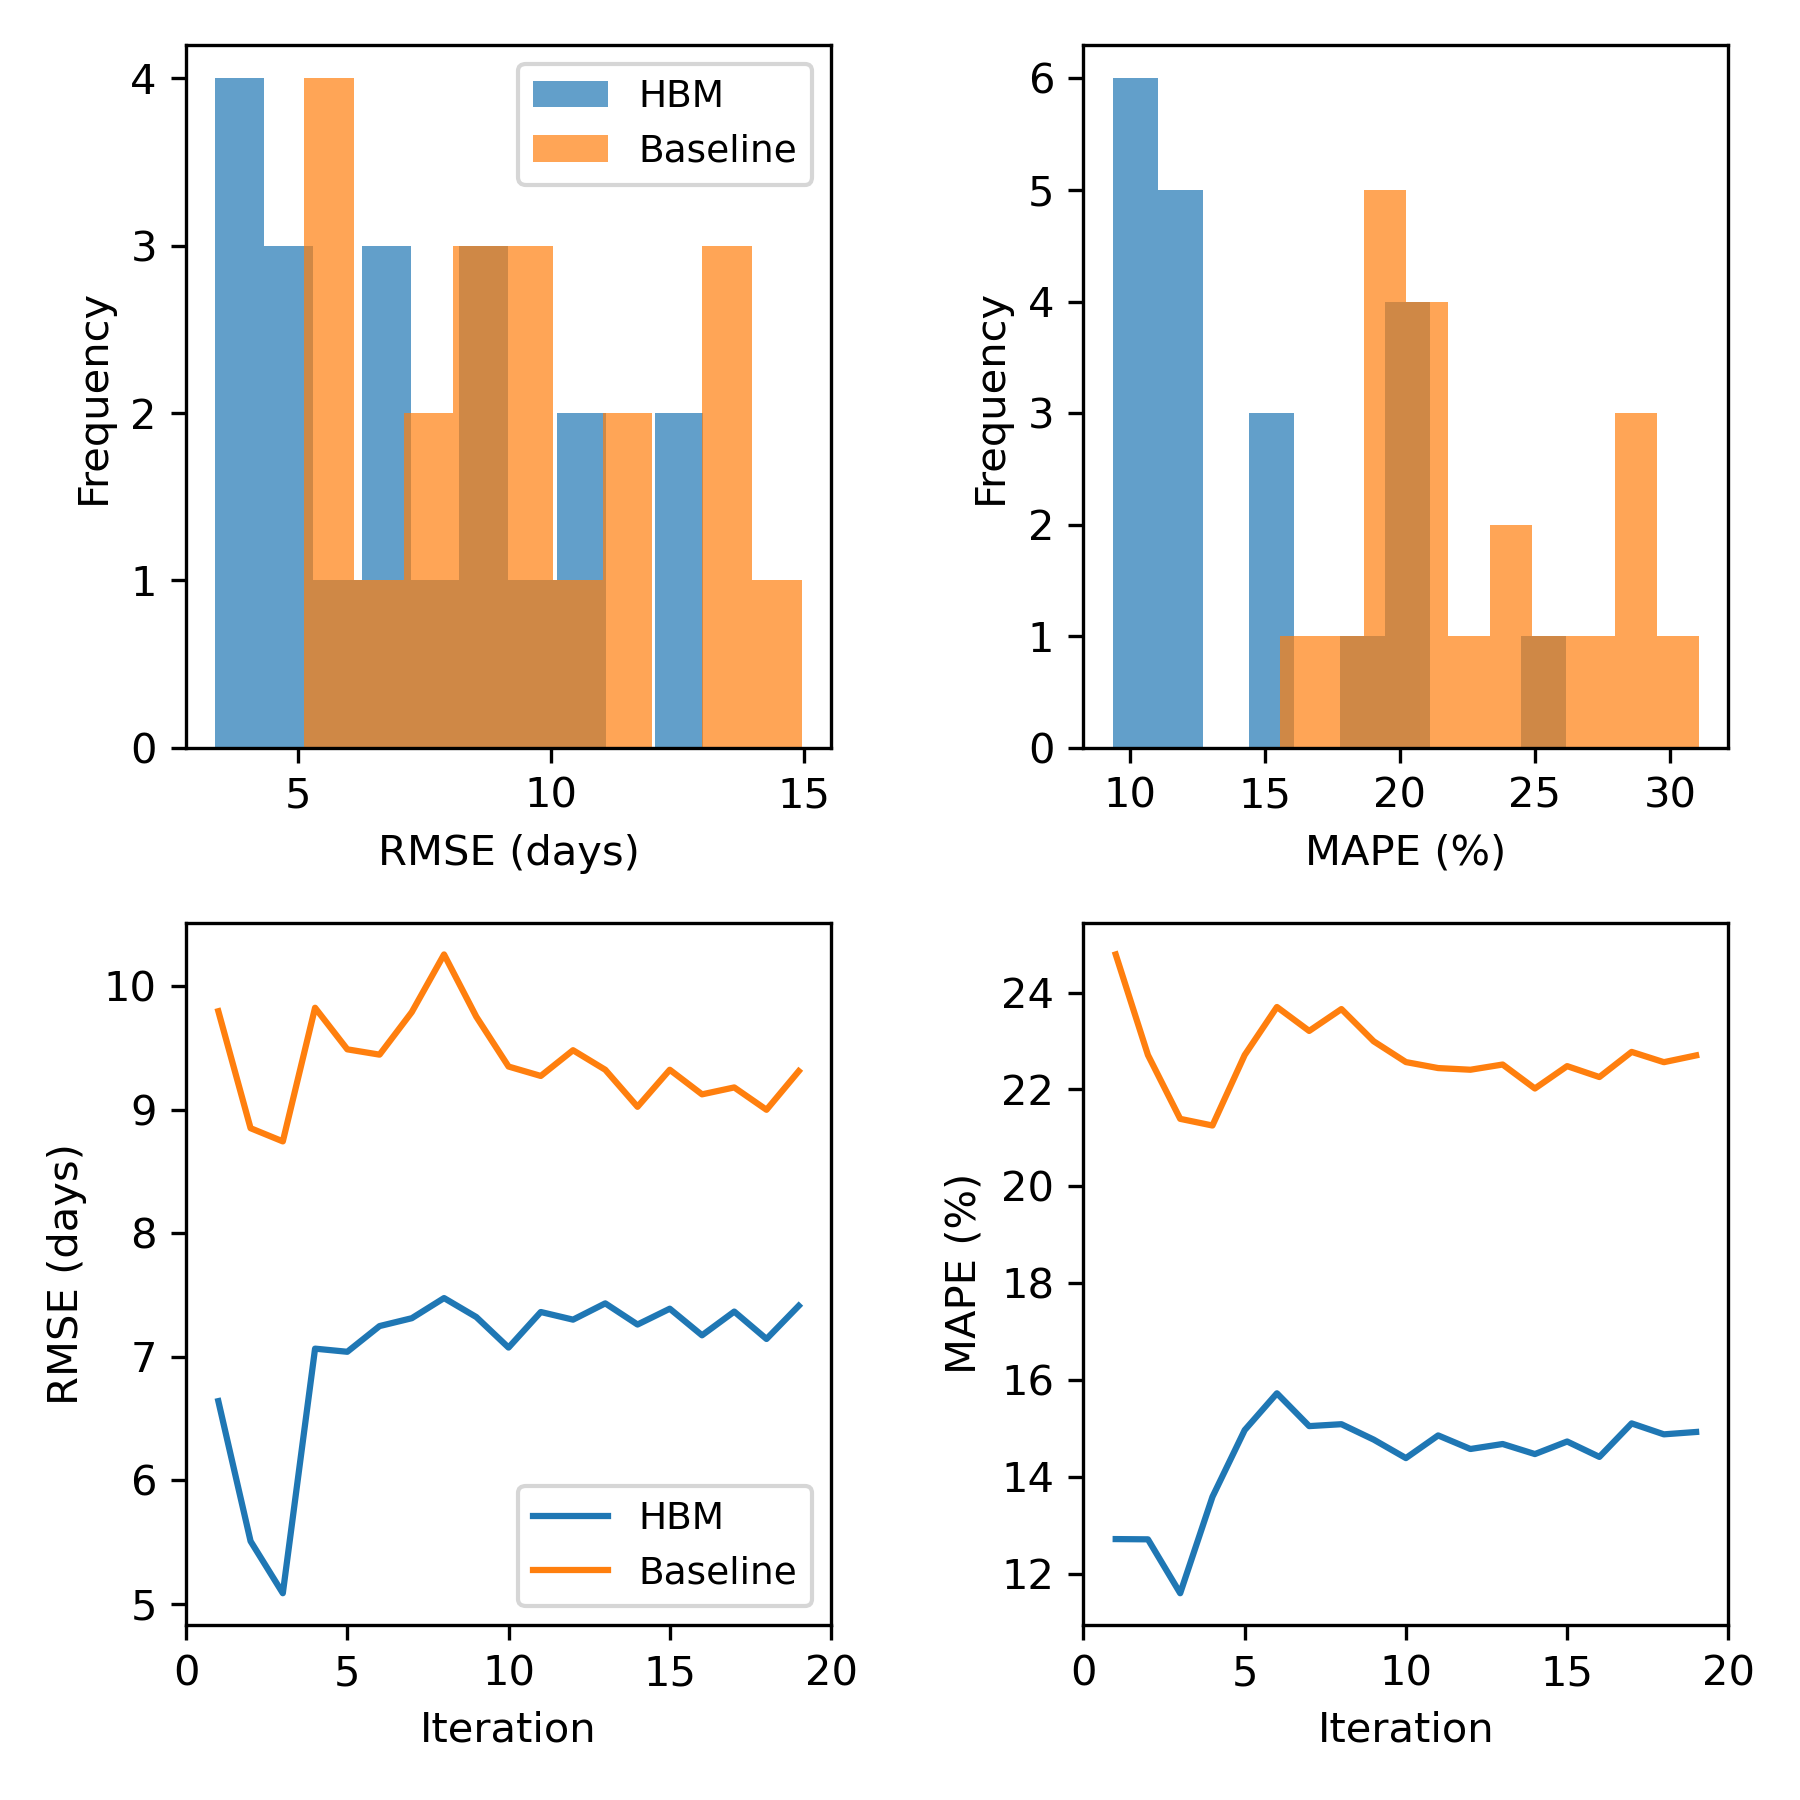
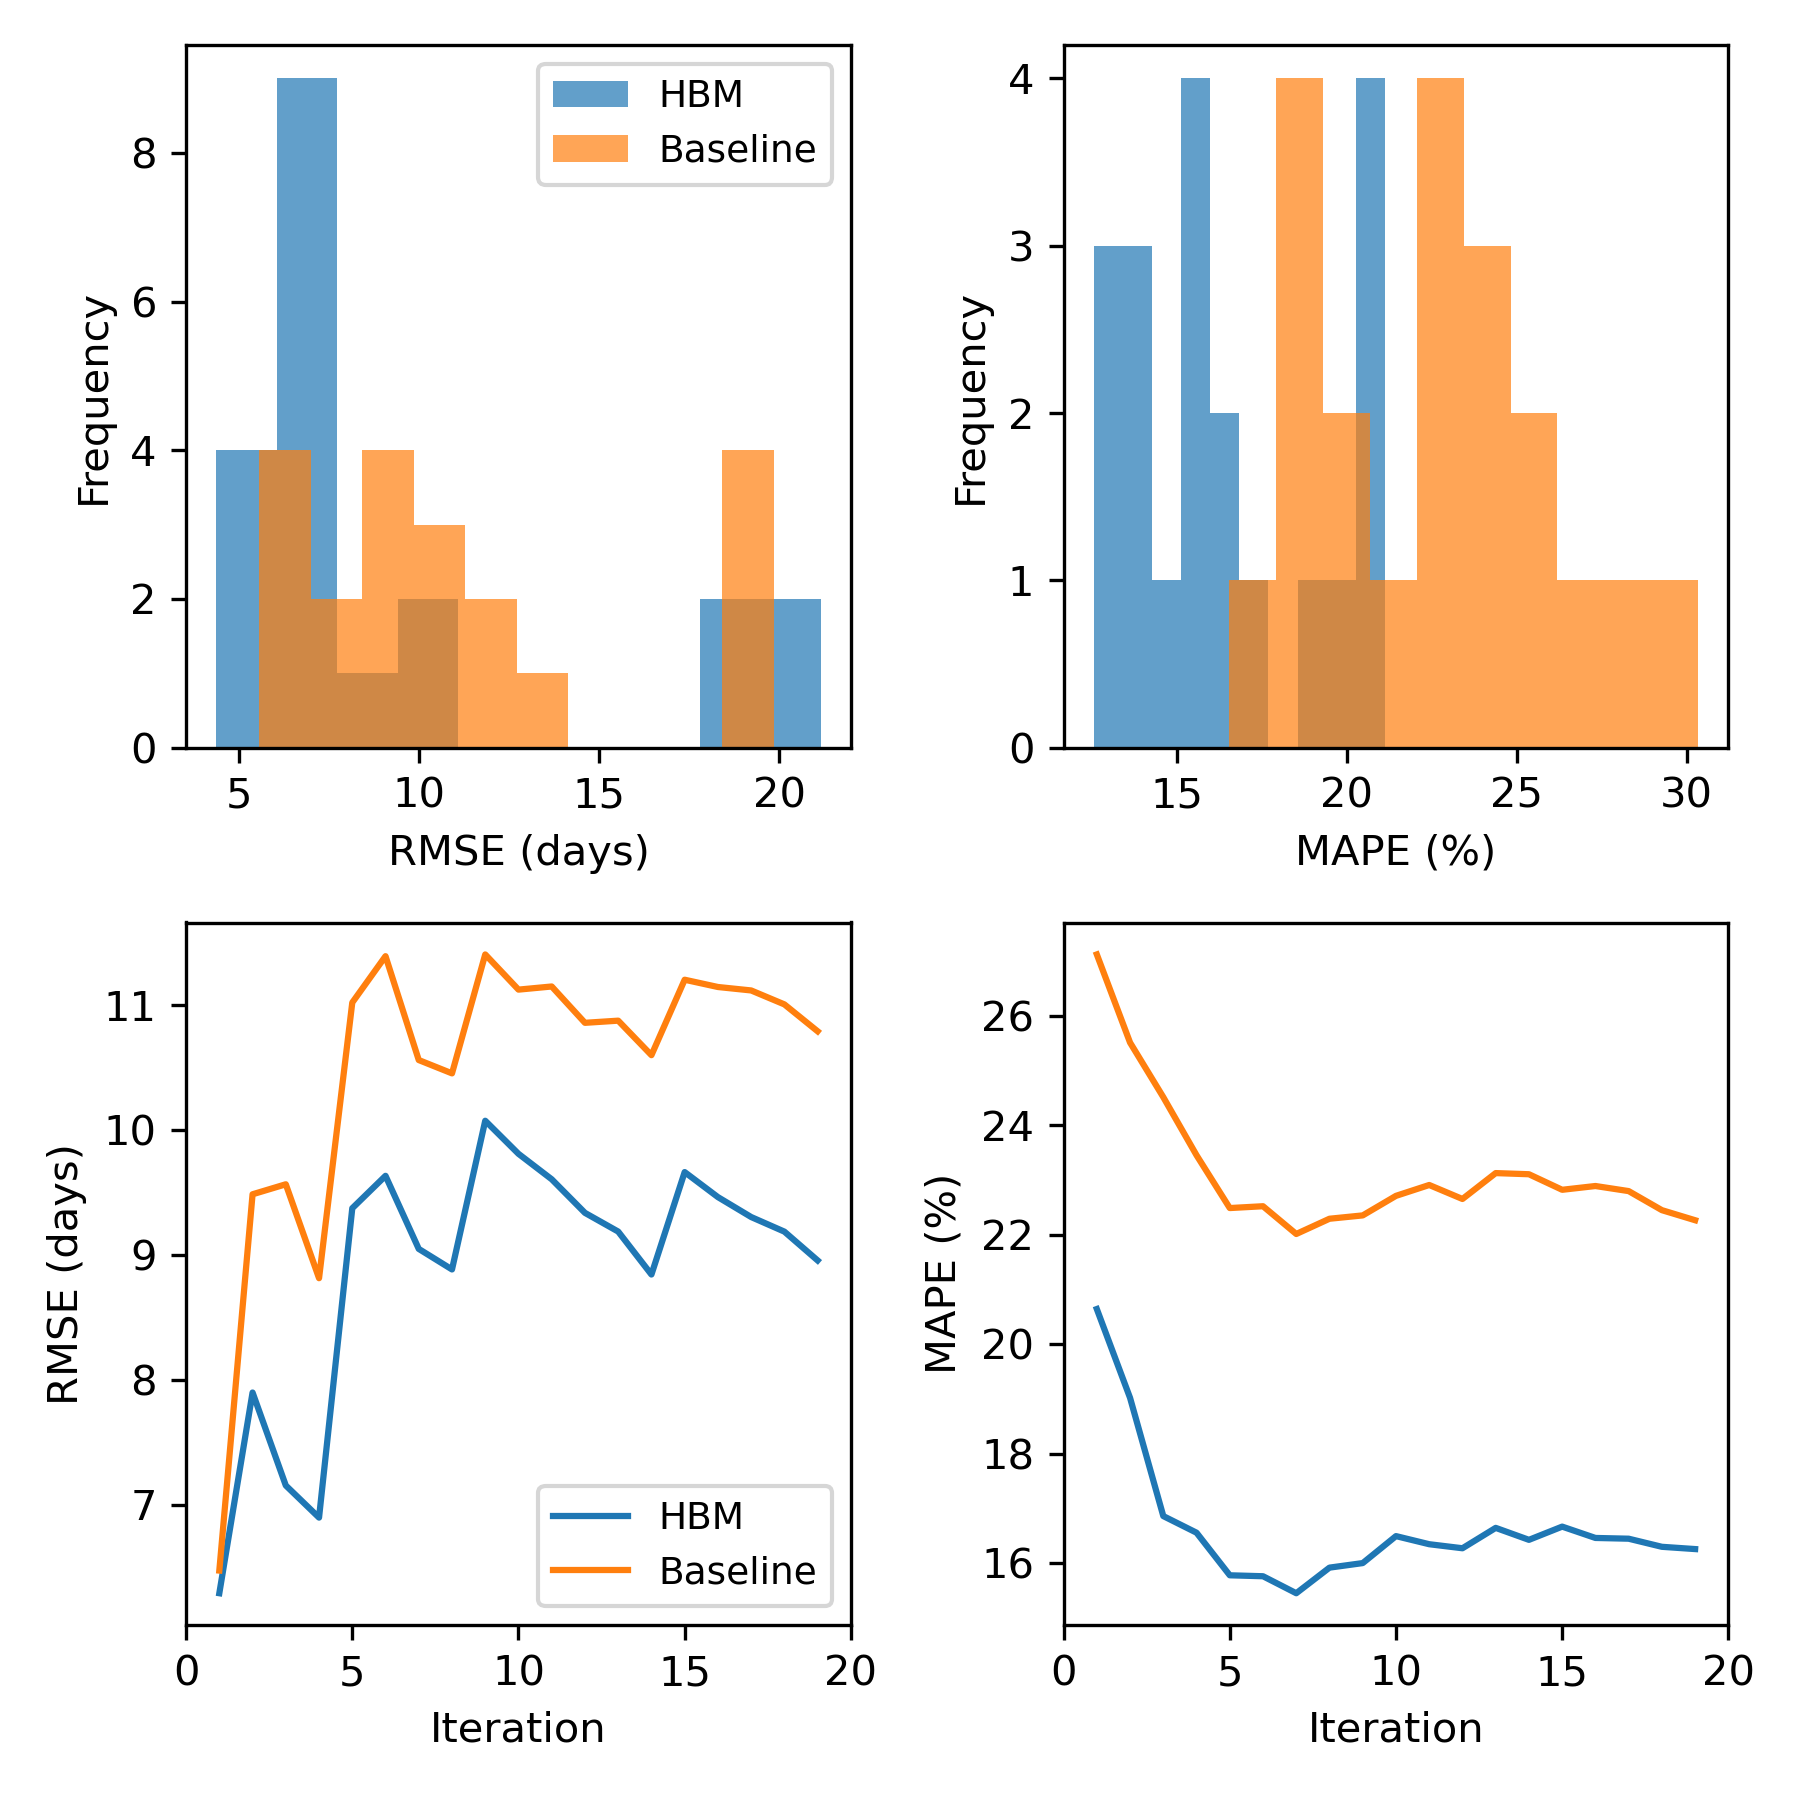
Removed train-test split, adjusted results to match results with the seed, added citations

diff --git a/Report/experiment.tex b/Report/experiment.tex
@@ -4,8 +4,8 @@ The analysis was completed in Python, and the hierarchical Bayesian model was bu
 
 First, the data set was processed following section \ref{sec:dataoverview}. Early cycle features described in table \ref{table:features} were extracted and the data was partitioned into 8 groups as described in section \ref{subsec:GroupingResults}. 
 The following experiment uses the hill-climbing grouping, which yielded a higher VPC ($74.5\%$ vs.\ $39.0\%$ for K-means) — indicating greater between-group variance 
-relative to total variance (section~\ref{sec:groupinglogic}), and thus a more statistically justified hierarchical structure. the HBM under K-means grouping confirmed this, showing no improvement over the baseline.
-The data was split into training and test sets of 135 and 34 cells respectively, stratified by cycling group $g$. A 5-fold cross-validation was performed 4 times (yielding 20 error estimates) to assess the generalizability of the model.
+relative to total variance (section~\ref{sec:groupinglogic}), and thus a more statistically justified hierarchical structure. The HBM under K-means grouping confirmed this, showing no improvement over the baseline.
+A 5-fold cross-validation was performed 4 times (yielding 20 error estimates) to assess the general predictive ability of the model.
 
 \section{Results and Discussion}
 
@@ -21,73 +21,26 @@ The performance of the Hierarchical Bayesian model is compared against two basel
 \hline
              &   Baseline (without $g$) & Baseline (with $g$) &     HBM     \\
 \hline
-     RMSE    &    9.31                 &    6.51             &     7.23    \\
-     MAPE    &    22.5\%                &    16.8\%           &     14.7\%  \\
+     RMSE    &    11.20                 &    9.10             &     9.47    \\
+     MAPE    &    22.7\%                &    18.3\%           &     16.5\%  \\
 \hline
 \end{tabular}
-\caption{Average RMSE (in days) and MAPE of the EoL predictions on the cross validation}
+\caption{Average RMSE (in days) and MAPE of the EoL predictions after a 5-fold cross validation performed 4 times}
 \label{table:RMSEandMAPE}
 \end{table}
 
 \begin{figure}[!ht]
     \centering
     \includegraphics[width=0.75\linewidth]{kfolds_results.png}
-    \caption{Histogram of all RSME and MAPE results for the HBM and baseline}
+    \caption{Histogram of all cross validation RSME and MAPE results for the HBM and baseline}
     \label{fig:kfolds_results}
 \end{figure}
 
-Table \ref{table:RMSEandMAPE} shows the average RMSE and MAPE after each repetition and fold, and figure \ref{fig:kfolds_results} shows the RMSE and MAPE values for each fold and repetition. HBM outperforms the baseline by $28.7\%$ with RMSE, but has similar results to the baseline with $g$ as a feature. This indicates the importance of the cycling condition as a feature and motivates the consideration of a hierarchical model, since conventional regression would treat the cycling condition and other features the same. Additionally, HBM outperforms both baseline models when considering MAPE. 
+Table \ref{table:RMSEandMAPE} shows the average RMSE and MAPE after each repetition and fold, and figure \ref{fig:kfolds_results} shows the RMSE and MAPE values for each fold and repetition.  HBM achieves a MAPE of $16.5\%$, outperforming both baselines, though its RMSE of $9.47$ days is marginally higher than the baseline with feature $g$ ($9.10$ days). The divergence between RMSE and MAPE on the test set suggests the presence of outliers that disproportionately inflate the HBM's squared error, while the model generalizes better on the majority of cells. This is consistent with the cross-validation results, where HBM's advantage was clearest under MAPE.
 
 \begin{figure}[!ht]
     \centering
     \includegraphics[width=0.75\linewidth]{results_scatterplot.png}
-    \caption{Predicted v.s. actual EoL for HBM and baseline}
+    \caption{Predicted v.s. actual EoL (in days) for HBM and baseline on one fold}
     \label{fig:results_scatterplot}
 \end{figure}
-
-\begin{table}[!ht]
-\centering
-\begin{tabular}{cccc}
-\hline
-             &   Baseline (without $g$) & Baseline (with $g$) &     HBM     \\
-\hline
-     RMSE    &    18.2                  &    18.2             &     18.8    \\
-     MAPE    &    18.5\%                &    17.1\%           &     13.9\%  \\
-\hline
-\end{tabular}
-\caption{RMSE (in days) and MAPE of the EoL predictions on the test set}
-\label{table:finalRMSEandMAPE}
-\end{table}
-
-Now using just a training and test set, table \ref{table:finalRMSEandMAPE} shows the RMSE and MAPE on the test set predictions and figure \ref{fig:results_scatterplot} shows the EoL predictions from the HBM and baseline models compared to the true values. On the test set, HBM achieves a MAPE of $13.9\%$, outperforming both baselines, though its RMSE of $18.8$ days is marginally higher than the baselines ($18.2$ days). The divergence between RMSE and MAPE on the test set suggests the presence of outliers that disproportionately inflate the HBM's squared error, while the model generalizes better on the majority of cells. This is consistent with the cross-validation results, where HBM's advantage was clearest under MAPE.
-
-\begin{table}
-    \centering
-\begin{adjustbox}{rotate=90}
-\begin{tabular}{lrrrrrrrrr}
-\hline
- & mean & sd & hdi\_3\% & hdi\_97\% & mcse\_mean & mcse\_sd & ess\_bulk & ess\_tail & $\hat{R}$ \\
-\hline
-gamma\_intercept[0] & 13.405& 3.616& 6.303& 20.183& 0.109& 0.106& 1148.00 & 1676.00 & 1.00 \\
-gamma\_intercept[1] & 2.586& 1.526& -0.247& 5.346& 0.041& 0.058& 1558.00 & 1814.00 & 1.00 \\
-gamma\_intercept[2] & -0.047& 1.706& -3.254& 3.168& 0.038& 0.028& 2012.00 & 2111.00 & 1.00 \\
-gamma\_intercept[3] & 1.128& 2.635& -4.206& 5.756& 0.067& 0.052& 1561.00 & 1997.00 & 1.01 \\
-gamma\_slope[0] & -3.269& 0.873& -4.913& -1.545& 0.026& 0.026 & 1150.00 & 1656.00 & 1.00 \\
-gamma\_slope[1] & -0.601& 0.371& -1.266& 0.10 & 0.01 & 0.014& 1545.00 & 1773.00 & 1.00 \\
-gamma\_slope[2] & 0.01 & 0.409& -0.749& 0.793& 0.009& 0.007& 2002.00 & 2135.00 & 1.00 \\
-gamma\_slope[3] & -0.261& 0.628& -1.475& 0.901& 0.016& 0.012& 1564.00 & 1985.00 & 1.01 \\
-sigma\_theta[0] & 0.472& 0.226& 0.134& 0.935& 0.007& 0.006& 894.00 & 897.00 & 1.00 \\
-sigma\_theta[1] & 0.097& 0.091& 0.00 & 0.256& 0.002& 0.003& 1725.00 & 1773.00 & 1.00 \\
-sigma\_theta[2] & 0.086& 0.076& 0.00 & 0.216& 0.002& 0.002& 1797.00 & 1840.00 & 1.00 \\
-sigma\_theta[3] & 0.115& 0.116& 0.00 & 0.307& 0.003& 0.006& 1485.00 & 1467.00 & 1.00 \\
-sigma\_y & 0.55 & 0.037& 0.481& 0.615& 0.001& 0.001& 3433.00 & 3011.00 & 1.00 \\
-\hline
-\end{tabular}
-\end{adjustbox}
-\caption{MCMC summary statistics for the final model parameters}
-\label{tab:mcmcresults}
-\end{table}
-
-To assess model validity, table \ref{tab:mcmcresults} shows MCMC convergence diagnostics for the final model fit. All parameters achieved $\hat{R} \leq 1.01$ and bulk effective sample sizes above 894, indicating that the chains mixed well and the posterior estimates are reliable \cite{vehtari2021rank}. The observation noise parameter $\sigma_y$ was tightly estimated at $0.55 \pm 0.04$ (standardized units) with an ESS of 3433, showing high posterior certainty about the residual variance.
-
-The hyperprior slope $\gamma_{\text{slope},0}$, governing how mean C-rate modulates the group-level intercept, has a posterior mean of $-3.27$ with a 94\% HDI of $[-4.91, -1.55]$, which excludes zero. This provides credible evidence that groups with higher average charge rates are associated with shorter battery lifetimes at the group level, and justifies the hierarchical structure of the model. Furthermore, $\sigma_{\theta,0} = 0.47$ with HDI $[0.13, 0.94]$ confirms that meaningful variation in baseline lifetime persists across groups beyond what C-rate alone explains. In contrast, the hyperprior slopes for the early-cycle features $\gamma_{\text{slope},1{-}3}$ all have HDIs that include zero, indicating that the regression coefficients for F1, F2, and F3 are shared across groups rather than modulated by cycling condition. The hierarchy therefore operates primarily through group intercepts, while feature effects generalize across charging protocols.

diff --git a/Report/conclusion.tex b/Report/conclusion.tex
@@ -2,8 +2,6 @@
 
 This work investigated the use of a hierarchical Bayesian model (HBM) for predicting battery end-of-life (EoL) from early-cycle features, incorporating cycling condition as a group-level structure rather than a flat input feature. Three early-cycle features were extracted following the approach of \cite{severson2019}, and cells were partitioned into 8 groups based on charging protocol using a hill-climbing algorithm, which produced a variance partition coefficient sufficient to justify a hierarchical treatment of the data.
 
-Across 20 cross-validation folds, the HBM achieved a mean MAPE of $14.7\%$, outperforming both the plain ridge baseline ($22.5\%$) and the ridge model with the group feature ($16.8\%$). On the held-out test set, the HBM maintained the lowest MAPE at $13.9\%$, though its RMSE was marginally higher than the baselines, suggesting sensitivity to a small number of outlier predictions. MCMC diagnostics confirmed reliable posterior inference, with all parameters satisfying $\hat{R} \leq 1.01$ and adequate effective sample sizes.
-
-Bayesian posterior analysis revealed that the hyperprior slope linking mean C-rate to the group intercept was credibly negative (HDI $[-4.91, -1.55]$), providing probabilistic evidence that higher charge rates are associated with reduced battery lifetime at the group level. The early-cycle feature coefficients, by contrast, were found to generalize across groups, with no credible C-rate modulation. Together, these findings suggest that the performance advantage of the HBM over conventional regression stems not from learning different feature sensitivities per group, but from appropriately pooling information across cells sharing similar cycling conditions when estimating baseline lifetime.
+Across 20 cross-validation folds, the HBM achieved a mean MAPE of $16.5\%$, outperforming both the plain ridge baseline ($22.7\%$) and the ridge model with the group feature ($18.3\%$). These findings suggest that the performance advantage of the HBM over conventional regression stems not from learning different feature sensitivities per group, but from appropriately pooling information across cells sharing similar cycling conditions when estimating baseline lifetime.
 
 Future work could explore richer group structures and the influence of cluster size and number. The grouping of the cycling conditions heavily influenced the results of HBM as well as the baseline rigde regression with the group feature.

diff --git a/Report/introduction.tex b/Report/introduction.tex
@@ -1,6 +1,6 @@
 \section{Introduction}
 
-The lithium-ion battery is the predominant form of commercial rechargeable battery, and is widely used in many applications ranging from consumer electronics to electric vehicles and grid storage. Accurately predicting battery end-of-life (EoL), typically defined as the point at which its capacity falls below a specified threshold, is important for ensuring safety, optimizing maintenance schedules, and enabling efficient lifecycle management. However, battery degradation is influenced by a complex interplay of factors such as usage patterns, environmental conditions, and manufacturing variability, leading to substantial heterogeneity across cells and operating groups.
+The lithium-ion battery is the predominant form of commercial rechargeable battery, and is widely used in many applications ranging from consumer electronics to electric vehicles and grid storage. Accurately predicting battery end-of-life (EoL), typically defined as the point at which its capacity falls below a specified threshold, is important for ensuring safety, optimizing maintenance schedules, and enabling efficient lifecycle management \cite{Ahwiadireview2025}. However, battery degradation is influenced by a complex interplay of factors such as usage patterns, environmental conditions, and manufacturing variability \cite{HAN2019100005}, leading to substantial heterogeneity across cells and operating groups.
 
 Traditional data-driven approaches to EoL prediction, such as linear regression or machine learning models, often treat all observations as independent and identically distributed. While these models can achieve reasonable predictive performance, they may fail to capture structured variability across groups, such as differences between batches of cells or operating regimes. Recent work has emphasized the importance of incorporating domain structure and uncertainty into predictive models for battery health, particularly in settings with limited data per group or high variability across populations \cite{severson2019}.
 
